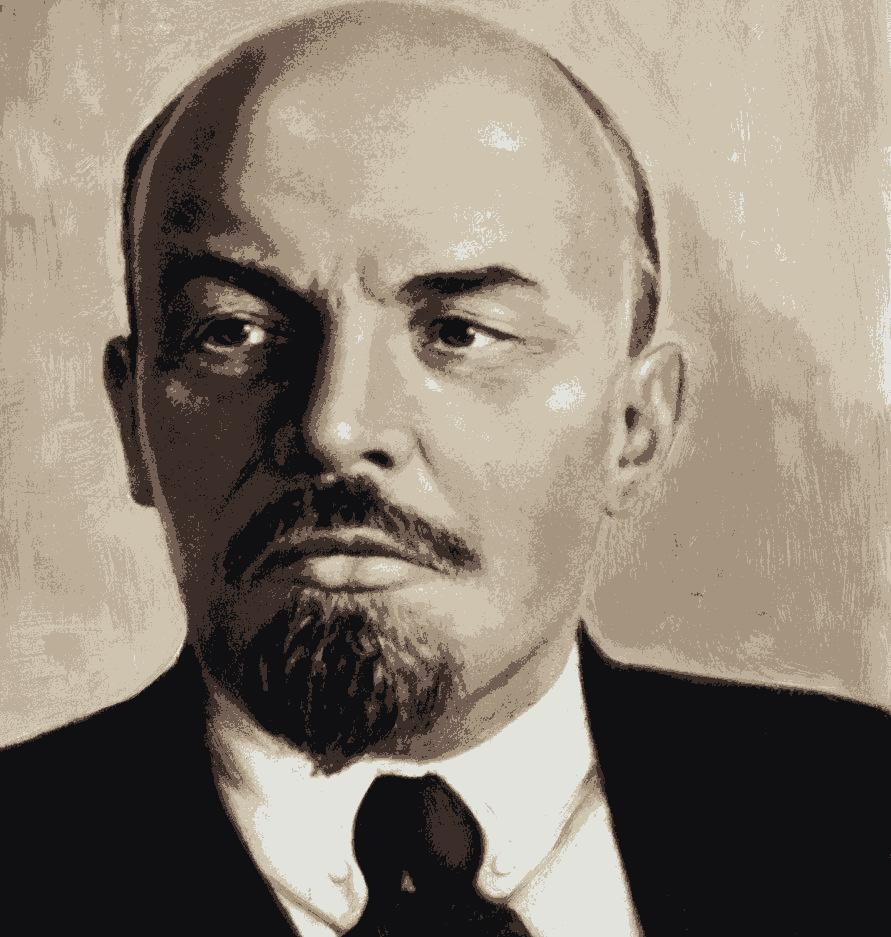
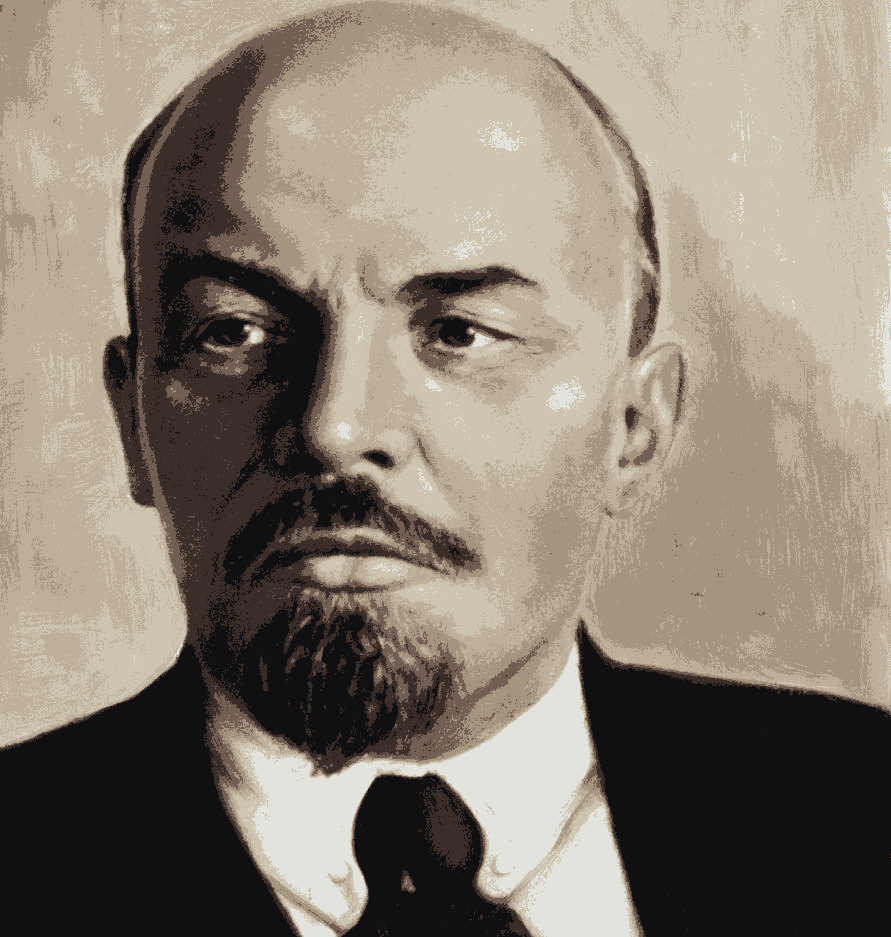
fix jpeg compression and add more examples

diff --git a/painting.py b/painting.py
@@ -10,7 +10,7 @@ def draw_picture(image, save=False, filename=""):
     plt.figure(figsize=(7, 5))
     plt.axis('off')
     if save:
-        plt.imsave(filename, new_image)
+        plt.imsave(filename, new_image, format='png')
     else:
         plt.imshow(new_image)
         plt.show()

diff --git a/README.md b/README.md
@@ -14,5 +14,3 @@ Source:\
 <img src="imgs/armstrong.png" alt="Armstrong in full colors" width="350">\
 KMeans with 7 colors:\
 <img src="imgs/armstrong_kmeans_7.png" alt="Armstrong in 7 colors" width="350">
-
-**KNOWN BUG: jpegs have worse render quality**
